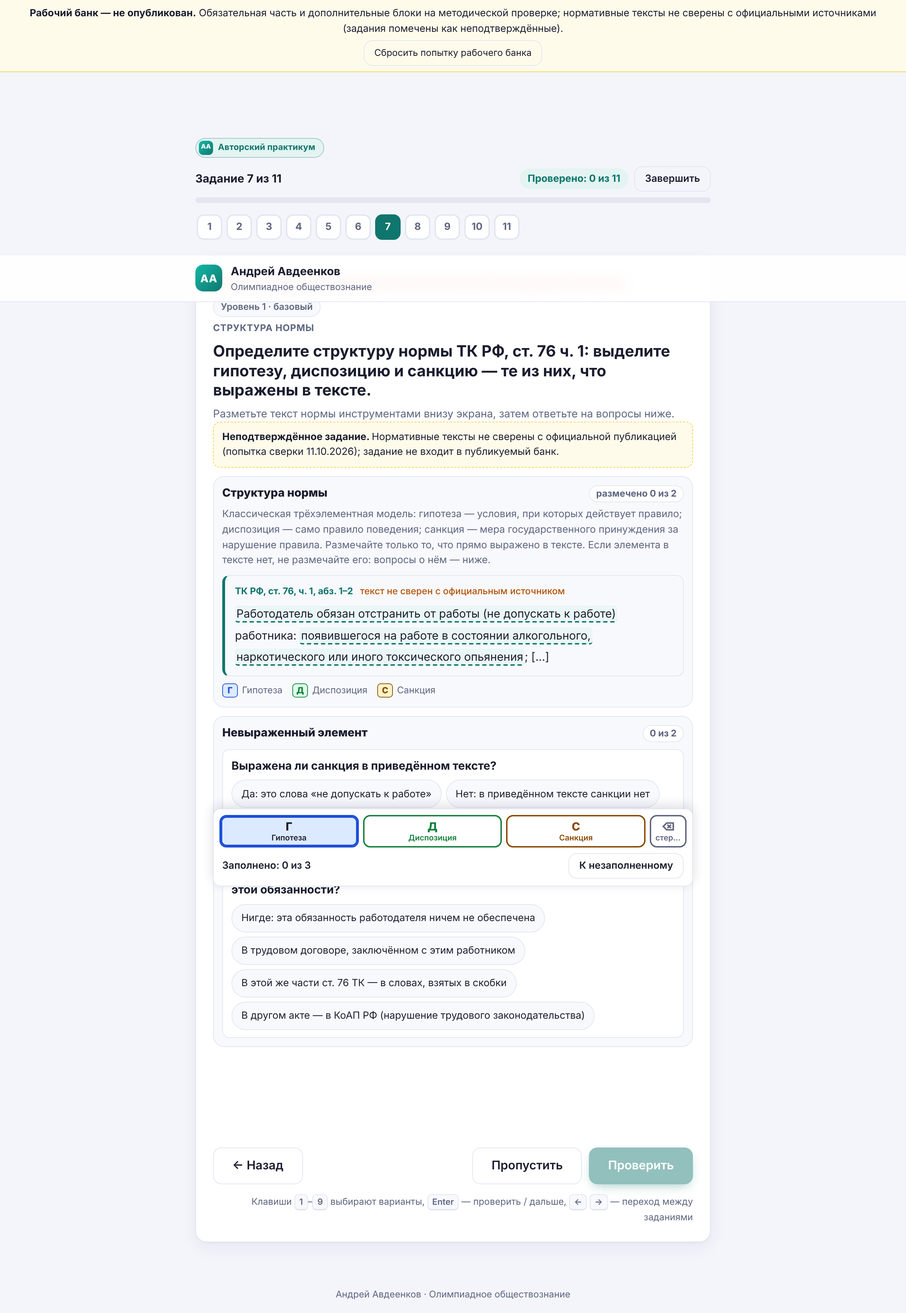
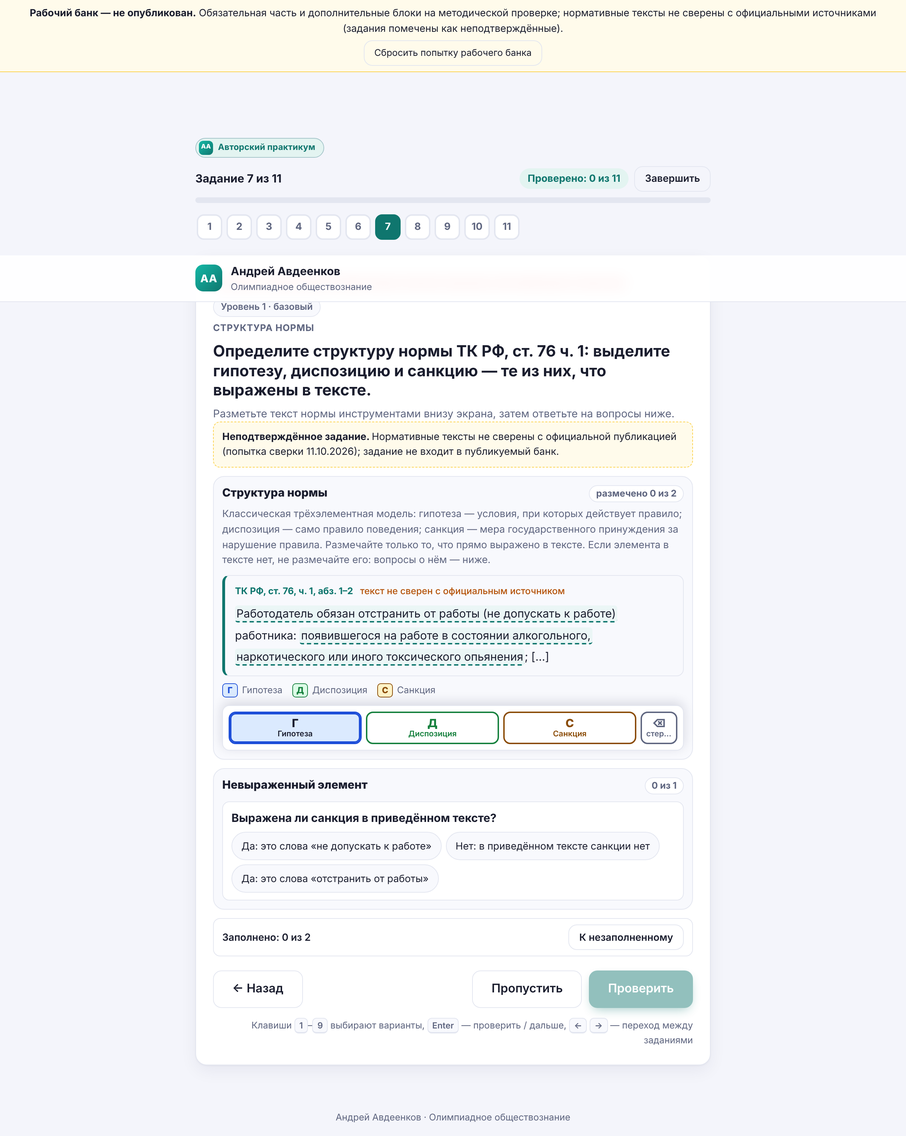
IV-1: независимая оценка элементов разметки, без вопроса о КоАП; панель разметки не перекрывает вопросы на мобильных
- text-markup: режим markup.scoring = 'independent' (Д как С → Г 1, Д 0, С 0); пояснение
  «Как начисляются баллы» зависит от режима; одно действие затрагивает не больше двух элементов.
- Панель инструментов закреплена внутри блока с текстом нормы; индикатор заполнения — в конце задания.

Claude-Session: https://claude.ai/code/session_01DtU1BYdzbcua2RQZXHQm1D

diff --git a/work/law-nrm/mandatory.js b/work/law-nrm/mandatory.js
@@ -922,6 +922,7 @@ OLY.addTasks([
       { id: 'S', label: 'Санкция', short: 'С' }
     ],
     markup: {
+      scoring: 'independent',
       key: { f1: 'D', f2: 'H' },
       elements: {
         H: {
@@ -933,7 +934,7 @@ OLY.addTasks([
           wrong: 'Правило поведения — «Работодатель обязан отстранить от работы (не допускать к работе)» — это диспозиция.'
         },
         S: {
-          explanation: 'Санкции в приведённом тексте нет. Мера ответственности работодателя за неисполнение обязанности установлена другим актом.',
+          explanation: 'Санкции в приведённом тексте нет, поэтому она не размечается.',
           wrong: {
             short: 'В тексте санкции нет — её не размечают.',
             full: 'Слова «отстранить от работы (не допускать к работе)» описывают, что должен сделать работодатель, то есть содержание его обязанности. Санкция — мера принуждения к самому работодателю за неисполнение этой обязанности; в ст. 76 её нет.'
@@ -955,26 +956,14 @@ OLY.addTasks([
               1: 'Недопуск к работе — содержание обязанности работодателя (диспозиция), а не мера принуждения к нему.',
               2: 'Отстранение — действие, которое обязан совершить работодатель (диспозиция). Санкция применялась бы к самому работодателю за неисполнение обязанности.'
             },
-            explanation: 'В тексте выражены только гипотеза и диспозиция.'
-          },
-          {
-            id: 'r-where', short: 'Где санкция', shuffle: true,
-            label: 'Где можно найти меру ответственности работодателя за неисполнение этой обязанности?',
-            options: ['В другом акте — в КоАП РФ (нарушение трудового законодательства)', 'В этой же части ст. 76 ТК — в словах, взятых в скобки', 'Нигде: эта обязанность работодателя ничем не обеспечена', 'В трудовом договоре, заключённом с этим работником'],
-            key: [0],
-            wrong: {
-              1: 'Слова в скобках уточняют содержание обязанности (не допускать к работе), а не устанавливают меру принуждения.',
-              2: 'Нарушение работодателем трудового законодательства влечёт административную ответственность по КоАП РФ.',
-              3: 'Трудовой договор не устанавливает мер государственного принуждения к работодателю.'
-            },
-            explanation: 'Санкцию можно восстановить из другого акта: за нарушение трудового законодательства работодатель несёт административную ответственность по КоАП РФ. Трёхэлементная модель описывает логическую структуру нормы — элементы не обязаны находиться в одной статье.'
+            explanation: 'В тексте выражены только гипотеза и диспозиция. Трёхэлементная модель описывает логическую структуру нормы: элемент, не выраженный в данном тексте, может содержаться в других нормах, но в задании он не размечается.'
           }
         ]
       }
     ],
-    explanation: 'В ч. 1 ст. 76 ТК выражены гипотеза (работник появился на работе в состоянии опьянения) и диспозиция (работодатель обязан отстранить его от работы). Санкции в тексте нет: меру ответственности работодателя можно восстановить из другого акта — КоАП РФ.',
+    explanation: 'В ч. 1 ст. 76 ТК выражены гипотеза (работник появился на работе в состоянии опьянения) и диспозиция (работодатель обязан отстранить его от работы). Санкции в приведённом тексте нет, поэтому она не размечается.',
     typicalMistake: 'Принимать слова «не допускать к работе» за санкцию или размечать элемент, которого нет в тексте.',
-    scoring: { maxPoints: 5, rule: 'components', basis: 'author' }
+    scoring: { maxPoints: 4, rule: 'components', basis: 'author' }
   },
   {
     id: 'PR-LAW-NRM-008',

diff --git a/js/olymp/types/text-markup.js b/js/olymp/types/text-markup.js
@@ -17,7 +17,8 @@
  *     key: { fragmentId: 'H' | ['H', 'D'] | null },  // каждый размечаемый фрагмент;
  *                                   // список — спорная граница: принимается любая метка из списка;
  *                                   // null — фрагмент не относится ни к одному элементу
- *     elements: { H: { explanation: '…', wrong: '…' | { short, full } }, … }  // для каждого элемента палитры
+ *     elements: { H: { explanation: '…', wrong: '…' | { short, full } }, … },  // для каждого элемента палитры
+ *     scoring?: 'independent'      // элементы оцениваются независимо (см. independent())
  *   },
  *   sections?: [...]                // строки выбора (как в analysis-grid, без доказательства)
  * }
@@ -109,6 +110,7 @@
     Object.keys(key).forEach(function (id) {
       if (fragments.indexOf(id) === -1) errors.push('markup.key: фрагмент ' + id + ' не размечается (нет в основных блоках)');
     });
+    if (task.markup.scoring !== undefined && task.markup.scoring !== 'independent') errors.push("markup.scoring — только 'independent'");
     var elements = task.markup.elements;
     if (!elements || typeof elements !== 'object') errors.push('нет markup.elements');
     else {
@@ -186,6 +188,16 @@
    * не относится ни к одному элементу (null) или если этого элемента в тексте нет вовсе
    * («дописанная» санкция): тогда у элемента фрагмента по эталону — замечание.
    */
+  /**
+   * markup.scoring: 'independent' — каждый элемент оценивается самостоятельно: элемент засчитывается,
+   * если все его фрагменты размечены им и его метка не стоит на чужих фрагментах. Неверная метка на
+   * фрагменте элемента X меткой Y снимает балл у X (не распознан) и у Y (поставлен ошибочно) — и только
+   * у них. Без этого поля — прежнее правило: одна неверная метка снимает не больше одного балла.
+   */
+  function independent(task) {
+    return !!task.markup && task.markup.scoring === 'independent';
+  }
+
   function scoreMarkup(task, marks) {
     var elements = {};
     task.palette.forEach(function (p) { elements[p.id] = { status: 'ok', points: 1, missing: [], extra: [], noted: [], present: false }; });
@@ -198,7 +210,11 @@
       var m = marks[id] || null;
       var ok = acc.length === 0 ? m === null : (m !== null && acc.indexOf(m) !== -1);
       var charged = null;
-      if (!ok) {
+      if (!ok && independent(task)) {
+        if (acc.length) elements[acc[0]].missing.push(id);
+        if (m !== null) elements[m].extra.push(id);
+        charged = acc.length ? acc[0] : m;
+      } else if (!ok) {
         if (m !== null && !elements[m].present) {
           // «Дописан» элемент, которого в тексте нет: это и есть ошибка, балл снимается у него;
           // у элемента фрагмента по эталону — замечание.
@@ -274,6 +290,7 @@
     rowsOf: rowsOf,
     maxByComponent: maxByComponent,
     maxPoints: maxPoints,
-    scoreMarkup: scoreMarkup
+    scoreMarkup: scoreMarkup,
+    independent: independent
   };
 })(typeof window !== 'undefined' ? window : globalThis);

diff --git a/js/olymp/ui/views/markup.js b/js/olymp/ui/views/markup.js
@@ -113,7 +113,7 @@
     var sections = N.rowSections(task, task.sections || [], response.rows, changed);
     sections.nodes.forEach(function (n) { box.appendChild(n); });
 
-    // Палитра инструментов закреплена внизу экрана вместе с индикатором заполнения.
+    // Палитра инструментов закреплена внизу экрана, пока виден текст нормы.
     var dock = el('div', 'nrm-dock');
     var tools = el('div', 'nrm-tools');
     tools.setAttribute('role', 'group');
@@ -132,9 +132,12 @@
       toolButtons[p.id] = b;
     });
     dock.appendChild(tools);
+    // Панель закреплена только внутри блока с текстом нормы: инструменты нужны, пока текст
+    // на экране; при переходе к вопросам ниже панель уходит вместе с блоком и не перекрывает
+    // варианты ответа и кнопки. Индикатор заполнения — обычной строкой в конце задания.
+    markBlock.appendChild(dock);
     var fill = N.fillBar(task);
-    dock.appendChild(fill.node);
-    box.appendChild(dock);
+    box.appendChild(fill.node);
 
     function applyTool(id) {
       var current = response.marks[id];
@@ -222,7 +225,11 @@
     block.appendChild(legend(task));
     var note = el('p', 'nrm-legend');
     block.appendChild(note);
-    block.appendChild(N.more('Как начисляются баллы за разметку', [
+    block.appendChild(N.more('Как начисляются баллы за разметку', M.independent(task) ? [
+      'По 1 баллу за каждый элемент; элементы оцениваются независимо друг от друга.',
+      'Элемент засчитывается, если все его фрагменты размечены этим элементом и его метка не стоит на чужих фрагментах. Элемент, которого в тексте нет, засчитывается, если его метка нигде не поставлена.',
+      'Одна неверная метка затрагивает не больше двух элементов: тот, чей фрагмент не распознан, и тот, чья метка поставлена ошибочно.'
+    ] : [
       'По 1 баллу за каждый элемент. Балл элемента снимается, если хотя бы один его фрагмент пропущен или помечен другим элементом.',
       'Одна неверная метка снимает не больше одного балла. Ошибка учитывается у элемента, к которому фрагмент относится по эталону. Исключение — метка элементом, которого в тексте нет («дописанная» санкция): тогда балл снимается у этого элемента.',
       'Фрагменты со спорной границей засчитываются с любой из допустимых меток.'

diff --git a/tests/olymp-nrm-work.test.js b/tests/olymp-nrm-work.test.js
@@ -172,10 +172,28 @@ test('Образец задания на структуру (IV-1): класси
   assert.ok(!Object.values(t.markup.key).flat().includes('S'), 'санкции нет в тексте');
   assert.ok(Object.values(t.markup.key).every((k) => !Array.isArray(k)), 'без спорных границ');
   assert.doesNotMatch(JSON.stringify(t), /лекци|Условие применения санкции/);
+  // Элементы оцениваются независимо: диспозиция, размеченная как санкция, — 0 за Д и 0 за С, 1 за Г.
+  assert.equal(t.markup.scoring, 'independent');
   const r = OLY.types.get(t.type).getCorrect(t);
-  r.marks.f1 = 'S';   // «не допускать к работе» как санкция — ошибка
-  const g = OLY.grade.gradeTask(t, r);
-  assert.ok(g.points < t.scoring.maxPoints);
+  r.marks.f1 = 'S';
+  let g = OLY.grade.gradeTask(t, r);
+  assert.equal(g.details.markup.elements.H.points, 1);
+  assert.equal(g.details.markup.elements.D.points, 0);
+  assert.equal(g.details.markup.elements.S.points, 0);
+  assert.equal(g.details.components.T.earned, 1);
+  assert.equal(g.points, t.scoring.maxPoints - 2);
+  // Одно ошибочное действие не штрафует других элементов: пропуск диспозиции — только 0 за Д.
+  const r2 = OLY.types.get(t.type).getCorrect(t);
+  r2.marks.f1 = null;
+  g = OLY.grade.gradeTask(t, r2);
+  assert.deepEqual(['H', 'D', 'S'].map((k) => g.details.markup.elements[k].points), [1, 0, 1]);
+  // Перепутаны гипотеза и диспозиция — по 0 за каждую, санкция засчитана.
+  const r3 = OLY.types.get(t.type).getCorrect(t);
+  r3.marks.f1 = 'H'; r3.marks.f2 = 'D';
+  g = OLY.grade.gradeTask(t, r3);
+  assert.deepEqual(['H', 'D', 'S'].map((k) => g.details.markup.elements[k].points), [0, 0, 1]);
+  // Вопроса о мере ответственности по другим актам в задании нет.
+  assert.doesNotMatch(JSON.stringify(t), /КоАП/);
 });
 
 test('Задания на классификацию: одно предписание, простые вопросы без доказательств, отрасль — из общего набора 11 отраслей', () => {

diff --git a/docs/drafts/pr-law-nrm-blocks.md b/docs/drafts/pr-law-nrm-blocks.md
@@ -174,3 +174,18 @@
 Баллы: Т 3 + К 2 = 5.
 
 **Разбор неверной метки.** Правило «одна неверная метка снимает не больше одного балла» не меняется. Если пометить элементом, которого в тексте нет, фрагмент другого элемента (например, диспозицию как санкцию), балл снимается у отсутствующего элемента, а у элемента по эталону остаётся замечание. Формулировка замечания исправлена: «Фрагмент … — это „Диспозиция“, но он размечен как „Санкция“. Ошибка учтена в элементе „Санкция“».
+
+### Образец IV-1 — исправления после просмотра
+
+- **Начисление за разметку — независимая оценка элементов** (`markup.scoring: 'independent'`, пока включена только в IV-1).
+  - Элемент засчитывается, если все его фрагменты размечены им и его метка не стоит на чужих фрагментах.
+  - Элемент, которого в тексте нет, засчитывается, если его метка нигде не поставлена.
+  - Диспозиция, размеченная как санкция: Г — 1, Д — 0, С — 0, то есть 1 из 3.
+  - Одно ошибочное действие затрагивает не больше двух элементов: нераспознанный и ошибочно поставленный. Пропуск фрагмента снимает балл только у его элемента.
+  - Тесты проверяют все три случая.
+- **Вопрос «Где найти меру ответственности работодателя?» убран.** Задание ограничено структурой приведённой нормы, ссылок на КоАП нет. Баллы: Т 3 + К 1 = 4.
+- **Нижняя панель на мобильных.** Инструменты разметки закреплены внутри блока с текстом нормы и уходят вместе с ним при переходе к вопросам. Индикатор заполнения — обычной строкой в конце задания. Проверено прокруткой с шагом 40 px на 360 × 640 и 390 × 844 во всех заданиях разметки:
+  - панель ни разу не перекрывает варианты ответа, формулировки вопросов и кнопки;
+  - каждый фрагмент текста можно увидеть целиком над панелью.
+
+**Для остальных заданий на структуру** (IV-2, IV-3, IV-9, блок В) пока действует прежнее правило: одна неверная метка снимает не больше одного балла. Их перевод на независимую оценку — вместе с переработкой этих заданий.
